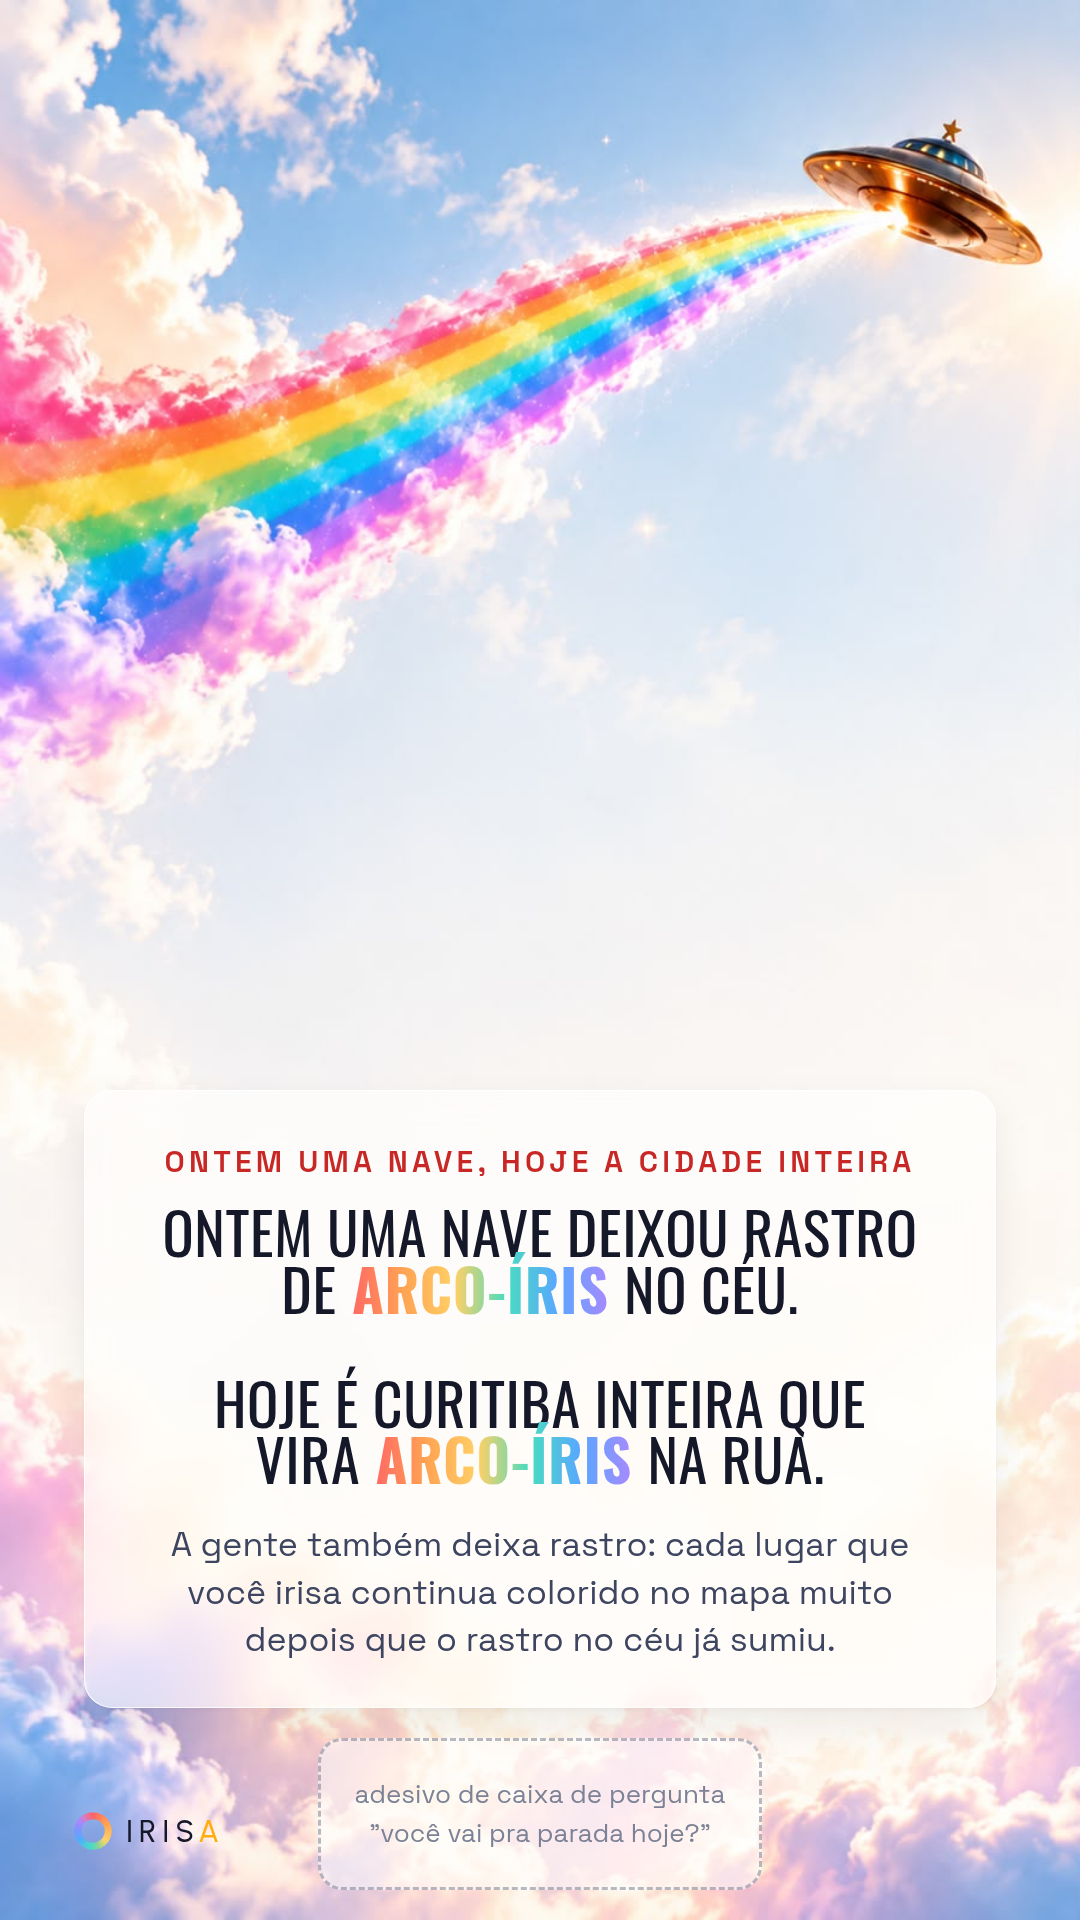
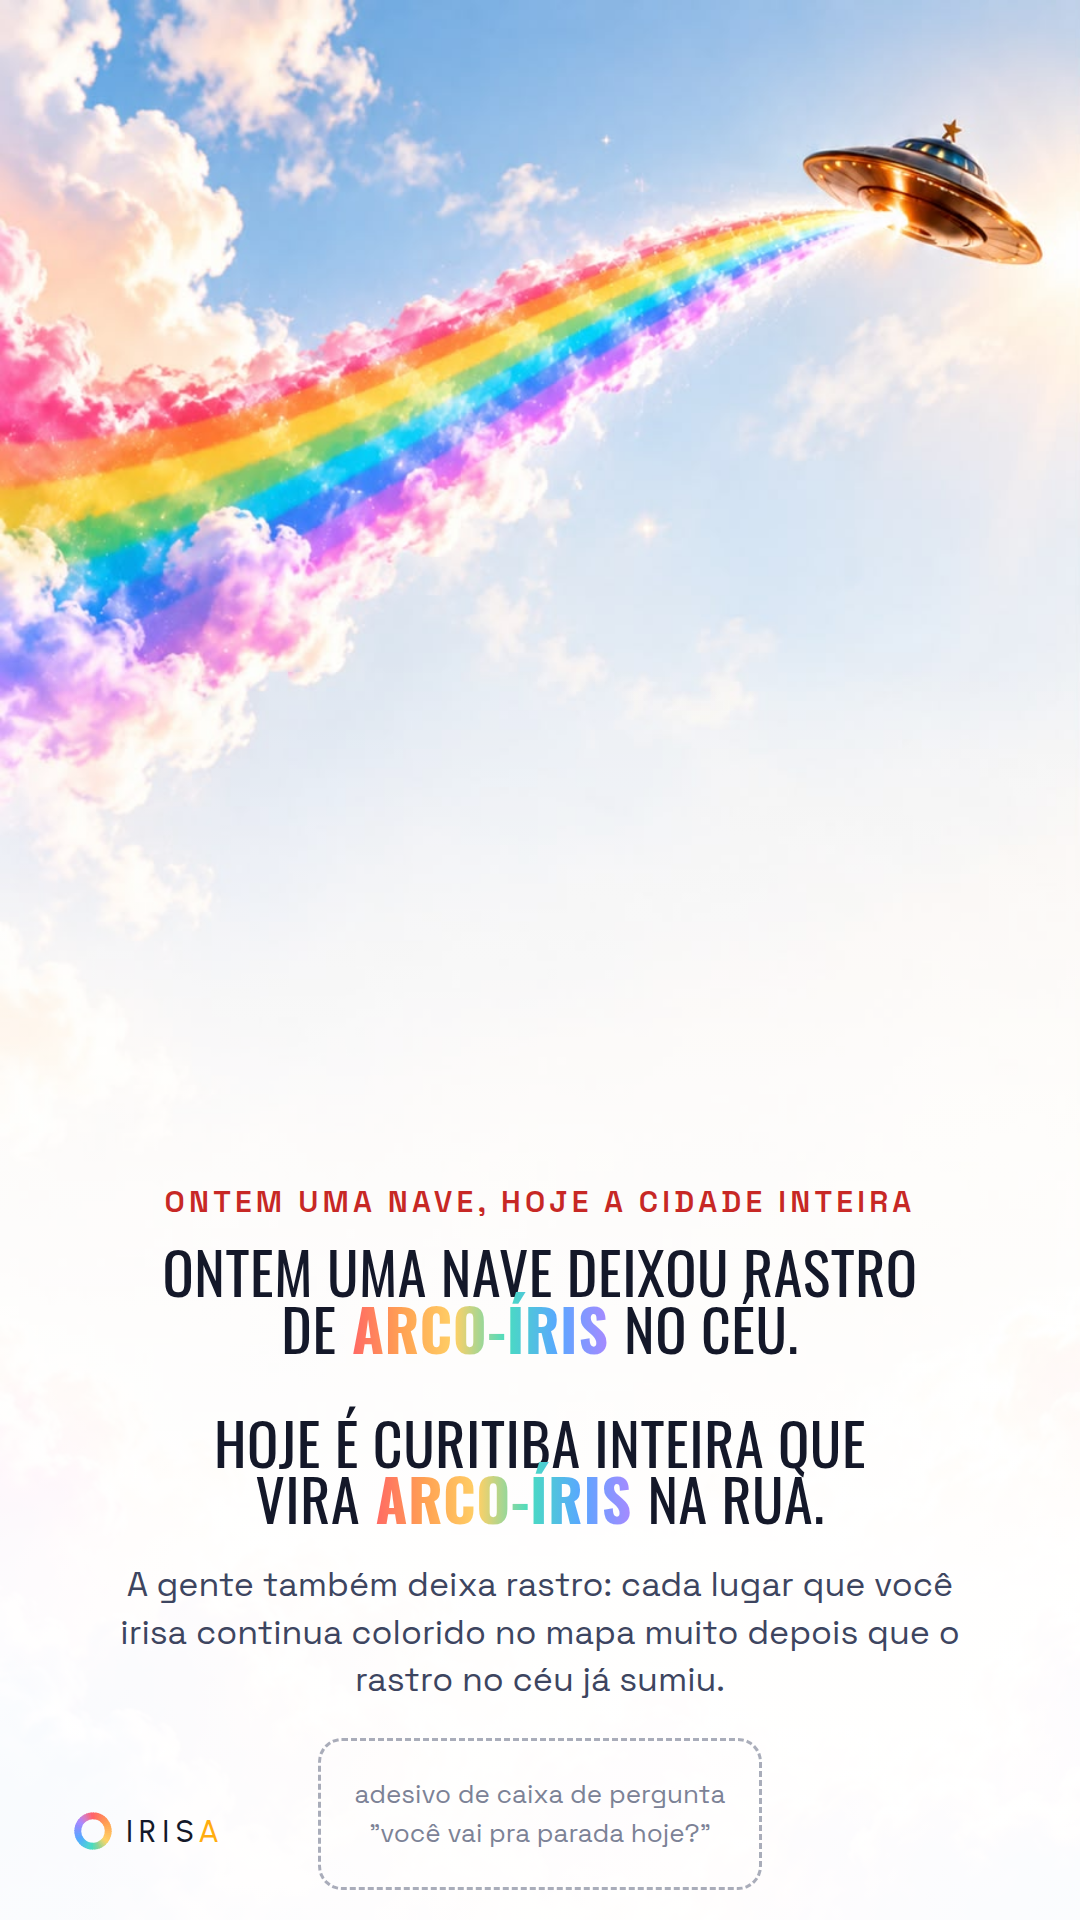
Story de hoje: troca o cartão branco por degradê suave, sem borda quadrada

Changed region(s): [[0.0, 0.5938, 1.0, 1.0], [0.9167, 0.6875, 1.0, 0.8438]]

diff --git a/docs/story-arcoiris.html b/docs/story-arcoiris.html
@@ -38,7 +38,8 @@ body{font-family:var(--body);color:var(--ink);display:flex;flex-direction:column
 <svg style="position:absolute;width:0;height:0" aria-hidden="true"><defs><symbol id="radarmin" viewBox="0 0 100 100"><path d="M50.00 1.00A49 49 0 0 1 58.82 1.80L55.58 19.51A31 31 0 0 0 50.00 19.00Z" fill="#ff6964"/><path d="M56.40 1.42A49 49 0 0 1 65.03 3.36L59.51 20.49A31 31 0 0 0 54.05 19.27Z" fill="#ff7062"/><path d="M62.68 2.67A49 49 0 0 1 70.99 5.72L63.28 21.99A31 31 0 0 0 58.02 20.06Z" fill="#ff7760"/><path d="M68.75 4.73A49 49 0 0 1 76.59 8.84L66.82 23.96A31 31 0 0 0 61.86 21.36Z" fill="#ff7f5d"/><path d="M74.50 7.56A49 49 0 0 1 81.73 12.67L70.08 26.38A31 31 0 0 0 65.50 23.15Z" fill="#ff875c"/><path d="M79.83 11.13A49 49 0 0 1 86.34 17.13L72.99 29.20A31 31 0 0 0 68.87 25.41Z" fill="#ff8e5a"/><path d="M84.65 15.35A49 49 0 0 1 90.32 22.15L75.51 32.38A31 31 0 0 0 71.92 28.08Z" fill="#ff9558"/><path d="M88.87 20.17A49 49 0 0 1 93.61 27.65L77.59 35.86A31 31 0 0 0 74.59 31.13Z" fill="#ff9c55"/><path d="M92.44 25.50A49 49 0 0 1 96.15 33.53L79.20 39.58A31 31 0 0 0 76.85 34.50Z" fill="#ffa353"/><path d="M95.27 31.25A49 49 0 0 1 97.91 39.70L80.31 43.48A31 31 0 0 0 78.64 38.14Z" fill="#ffa955"/><path d="M97.33 37.32A49 49 0 0 1 98.84 46.04L80.90 47.49A31 31 0 0 0 79.94 41.98Z" fill="#ffae58"/><path d="M98.58 43.60A49 49 0 0 1 98.94 52.45L80.96 51.55A31 31 0 0 0 80.73 45.95Z" fill="#ffb35a"/><path d="M99.00 50.00A49 49 0 0 1 98.20 58.82L80.49 55.58A31 31 0 0 0 81.00 50.00Z" fill="#ffb95d"/><path d="M98.58 56.40A49 49 0 0 1 96.64 65.03L79.51 59.51A31 31 0 0 0 80.73 54.05Z" fill="#ffbf5f"/><path d="M97.33 62.68A49 49 0 0 1 94.28 70.99L78.01 63.28A31 31 0 0 0 79.94 58.02Z" fill="#ffc561"/><path d="M95.27 68.75A49 49 0 0 1 91.16 76.59L76.04 66.82A31 31 0 0 0 78.64 61.86Z" fill="#ffc964"/><path d="M92.44 74.50A49 49 0 0 1 87.33 81.73L73.62 70.08A31 31 0 0 0 76.85 65.50Z" fill="#ffd066"/><path d="M88.87 79.83A49 49 0 0 1 82.87 86.34L70.80 72.99A31 31 0 0 0 74.59 68.87Z" fill="#efd46c"/><path d="M84.65 84.65A49 49 0 0 1 77.85 90.32L67.62 75.51A31 31 0 0 0 71.92 71.92Z" fill="#d7d679"/><path d="M79.83 88.87A49 49 0 0 1 72.35 93.61L64.14 77.59A31 31 0 0 0 68.87 74.59Z" fill="#bed582"/><path d="M74.50 92.44A49 49 0 0 1 66.47 96.15L60.42 79.20A31 31 0 0 0 65.50 76.85Z" fill="#a3d38c"/><path d="M68.75 95.27A49 49 0 0 1 60.30 97.91L56.52 80.31A31 31 0 0 0 61.86 78.64Z" fill="#8bd296"/><path d="M62.68 97.33A49 49 0 0 1 53.96 98.84L52.51 80.90A31 31 0 0 0 58.02 79.94Z" fill="#74d6a4"/><path d="M56.40 98.58A49 49 0 0 1 47.55 98.94L48.45 80.96A31 31 0 0 0 54.05 80.73Z" fill="#5fd9b2"/><path d="M50.00 99.00A49 49 0 0 1 41.18 98.20L44.42 80.49A31 31 0 0 0 50.00 81.00Z" fill="#49dcc0"/><path d="M43.60 98.58A49 49 0 0 1 34.97 96.64L40.49 79.51A31 31 0 0 0 45.95 80.73Z" fill="#4cd7ca"/><path d="M37.32 97.33A49 49 0 0 1 29.01 94.28L36.72 78.01A31 31 0 0 0 41.98 79.94Z" fill="#4fd2d4"/><path d="M31.25 95.27A49 49 0 0 1 23.41 91.16L33.18 76.04A31 31 0 0 0 38.14 78.64Z" fill="#4fcbdc"/><path d="M25.50 92.44A49 49 0 0 1 18.27 87.33L29.92 73.62A31 31 0 0 0 34.50 76.85Z" fill="#50c4e4"/><path d="M20.17 88.87A49 49 0 0 1 13.66 82.87L27.01 70.80A31 31 0 0 0 31.13 74.59Z" fill="#51bcec"/><path d="M15.35 84.65A49 49 0 0 1 9.68 77.85L24.49 67.62A31 31 0 0 0 28.08 71.92Z" fill="#52b4f5"/><path d="M11.13 79.83A49 49 0 0 1 6.39 72.35L22.41 64.14A31 31 0 0 0 25.41 68.87Z" fill="#52aefd"/><path d="M7.56 74.50A49 49 0 0 1 3.85 66.47L20.80 60.42A31 31 0 0 0 23.15 65.50Z" fill="#59a7ff"/><path d="M4.73 68.75A49 49 0 0 1 2.09 60.30L19.69 56.52A31 31 0 0 0 21.36 61.86Z" fill="#63a3ff"/><path d="M2.67 62.68A49 49 0 0 1 1.16 53.96L19.10 52.51A31 31 0 0 0 20.06 58.02Z" fill="#6b9fff"/><path d="M1.42 56.40A49 49 0 0 1 1.06 47.55L19.04 48.45A31 31 0 0 0 19.27 54.05Z" fill="#759aff"/><path d="M1.00 50.00A49 49 0 0 1 1.80 41.18L19.51 44.42A31 31 0 0 0 19.00 50.00Z" fill="#7d96ff"/><path d="M1.42 43.60A49 49 0 0 1 3.36 34.97L20.49 40.49A31 31 0 0 0 19.27 45.95Z" fill="#8791ff"/><path d="M2.67 37.32A49 49 0 0 1 5.72 29.01L21.99 36.72A31 31 0 0 0 20.06 41.98Z" fill="#908dff"/><path d="M4.73 31.25A49 49 0 0 1 8.84 23.41L23.96 33.18A31 31 0 0 0 21.36 38.14Z" fill="#9d8bff"/><path d="M7.56 25.50A49 49 0 0 1 12.67 18.27L26.38 29.92A31 31 0 0 0 23.15 34.50Z" fill="#a889ff"/><path d="M11.13 20.17A49 49 0 0 1 17.13 13.66L29.20 27.01A31 31 0 0 0 25.41 31.13Z" fill="#b684f0"/><path d="M15.35 15.35A49 49 0 0 1 22.15 9.68L32.38 24.49A31 31 0 0 0 28.08 28.08Z" fill="#c681dd"/><path d="M20.17 11.13A49 49 0 0 1 27.65 6.39L35.86 22.41A31 31 0 0 0 31.13 25.41Z" fill="#d37eca"/><path d="M25.50 7.56A49 49 0 0 1 33.53 3.85L39.58 20.80A31 31 0 0 0 34.50 23.15Z" fill="#de78b3"/><path d="M31.25 4.73A49 49 0 0 1 39.70 2.09L43.48 19.69A31 31 0 0 0 38.14 21.36Z" fill="#ea709b"/><path d="M37.32 2.67A49 49 0 0 1 46.04 1.16L47.49 19.10A31 31 0 0 0 41.98 20.06Z" fill="#f56a85"/><path d="M43.60 1.42A49 49 0 0 1 52.45 1.06L51.55 19.04A31 31 0 0 0 45.95 19.27Z" fill="#ff636e"/></symbol></defs></svg>
 <section class="sl story" style="justify-content:flex-end;padding:0">
   <img src="nave-arcoiris.jpg" alt="" style="position:absolute;inset:0;width:100%;height:100%;object-fit:cover;z-index:0">
-  <div class="c pane" style="z-index:1;margin:0 84px 30px;padding:52px 50px 44px">
+  <div style="position:absolute;left:0;right:0;bottom:0;height:66%;z-index:1;pointer-events:none;background:linear-gradient(to top,rgba(255,255,255,.97) 0%,rgba(255,255,255,.94) 30%,rgba(255,255,255,.6) 65%,rgba(255,255,255,0) 100%)"></div>
+  <div class="c" style="z-index:2;padding:0 90px">
     <div class="eyebrow" style="color:var(--coralInk)">ontem uma nave, hoje a cidade inteira</div>
     <p class="big c" style="font-size:58px;margin:22px auto 34px;max-width:760px">
       <span class="lt">Ontem uma nave deixou rastro de</span> <span class="rainbow">arco-íris</span> <span class="lt">no céu.</span><br><br>
@@ -46,7 +47,7 @@ body{font-family:var(--body);color:var(--ink);display:flex;flex-direction:column
     </p>
     <p class="body c" style="font-size:34px">A gente também deixa rastro: cada lugar que você irisa continua colorido no mapa muito depois que o rastro no céu já sumiu.</p>
   </div>
-  <div class="zone" style="z-index:1;width:auto;max-width:none;margin:0 84px 30px;background:rgba(255,255,255,.55)">adesivo de caixa de pergunta<br>"você vai pra parada hoje?"</div>
-  <div class="brand"><svg class="mark" viewBox="0 0 100 100"><use href="#radarmin"></use></svg><span>Iris<b>a</b></span></div>
+  <div class="zone" style="z-index:2;width:auto;max-width:none;margin:34px 90px 30px;border-color:color-mix(in srgb,var(--dim) 65%,transparent)">adesivo de caixa de pergunta<br>"você vai pra parada hoje?"</div>
+  <div class="brand" style="z-index:2"><svg class="mark" viewBox="0 0 100 100"><use href="#radarmin"></use></svg><span>Iris<b>a</b></span></div>
 </section>
 </body></html>
